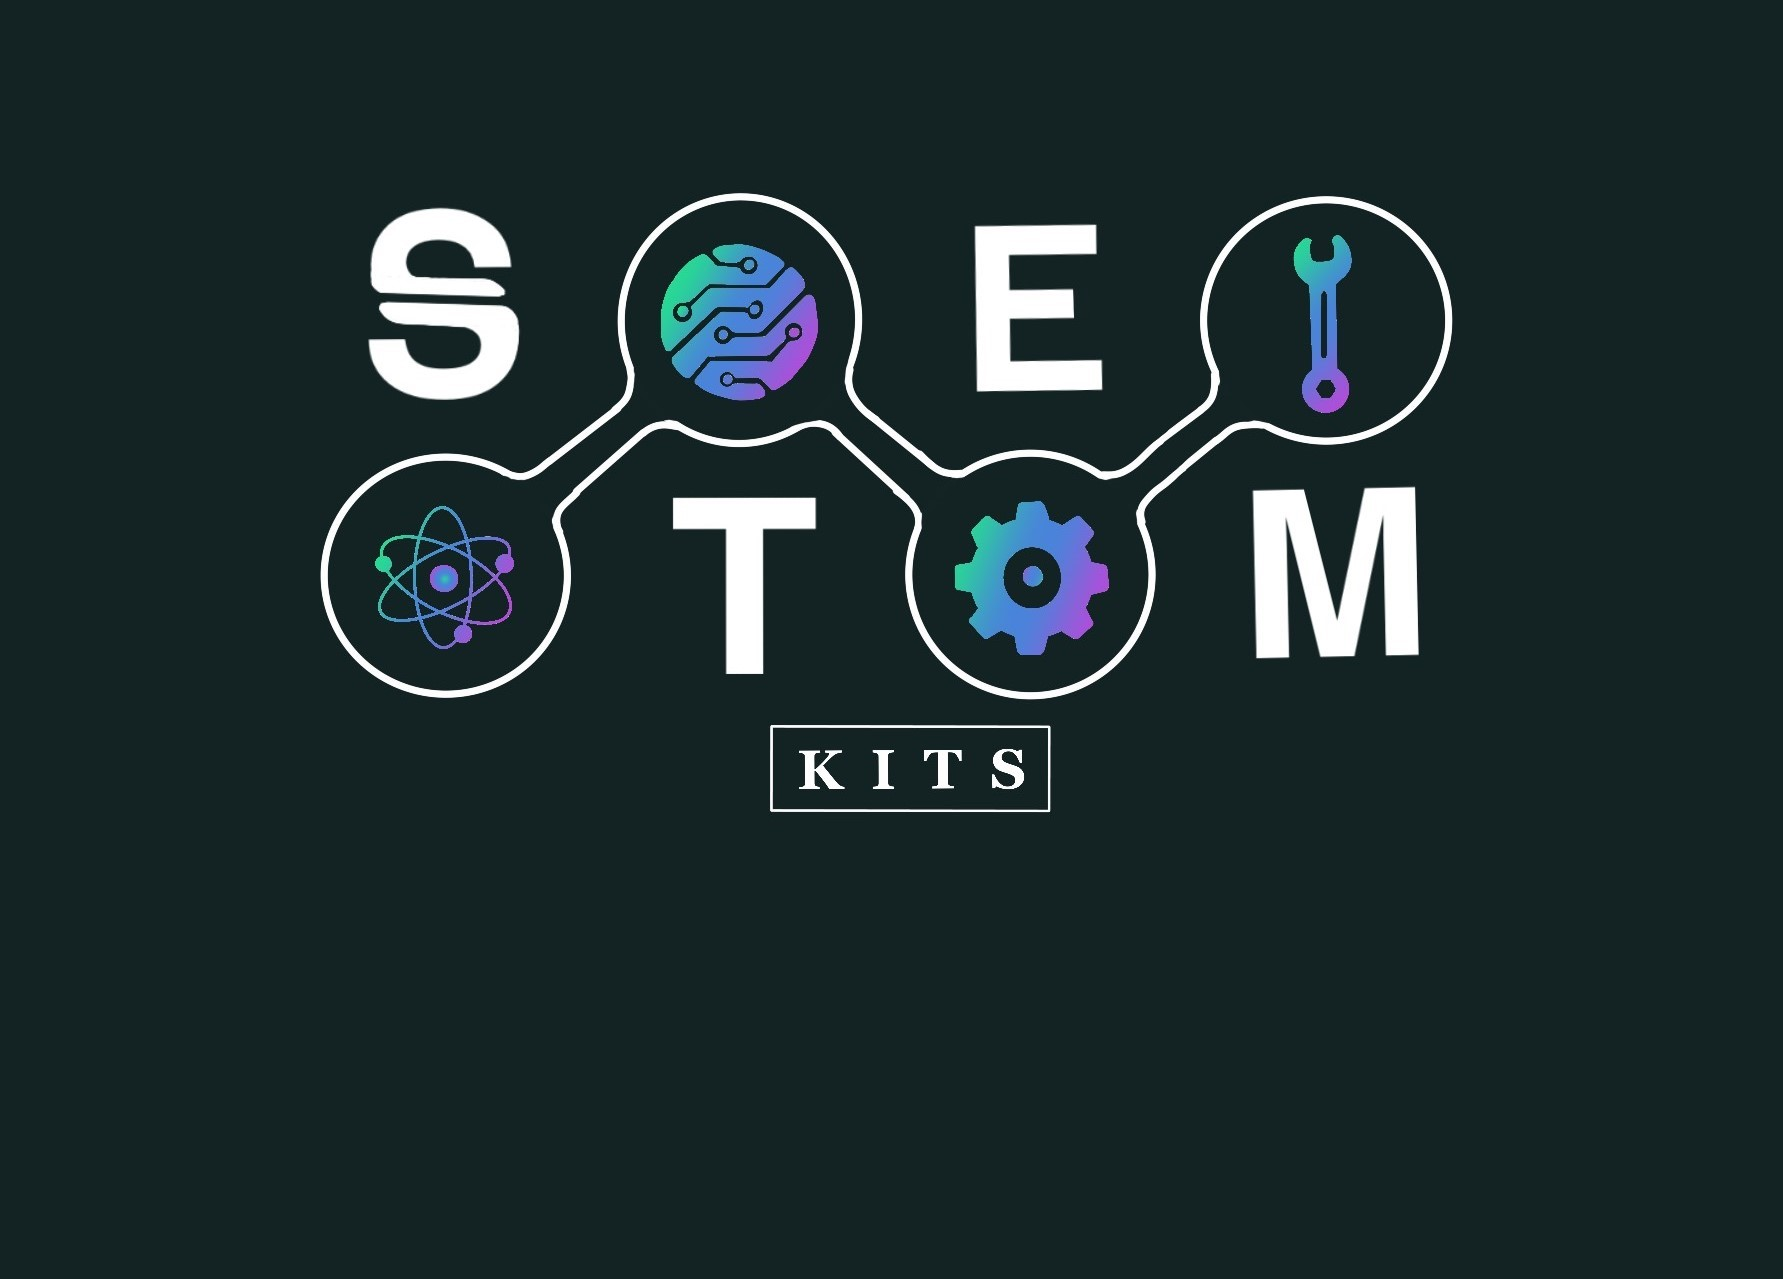
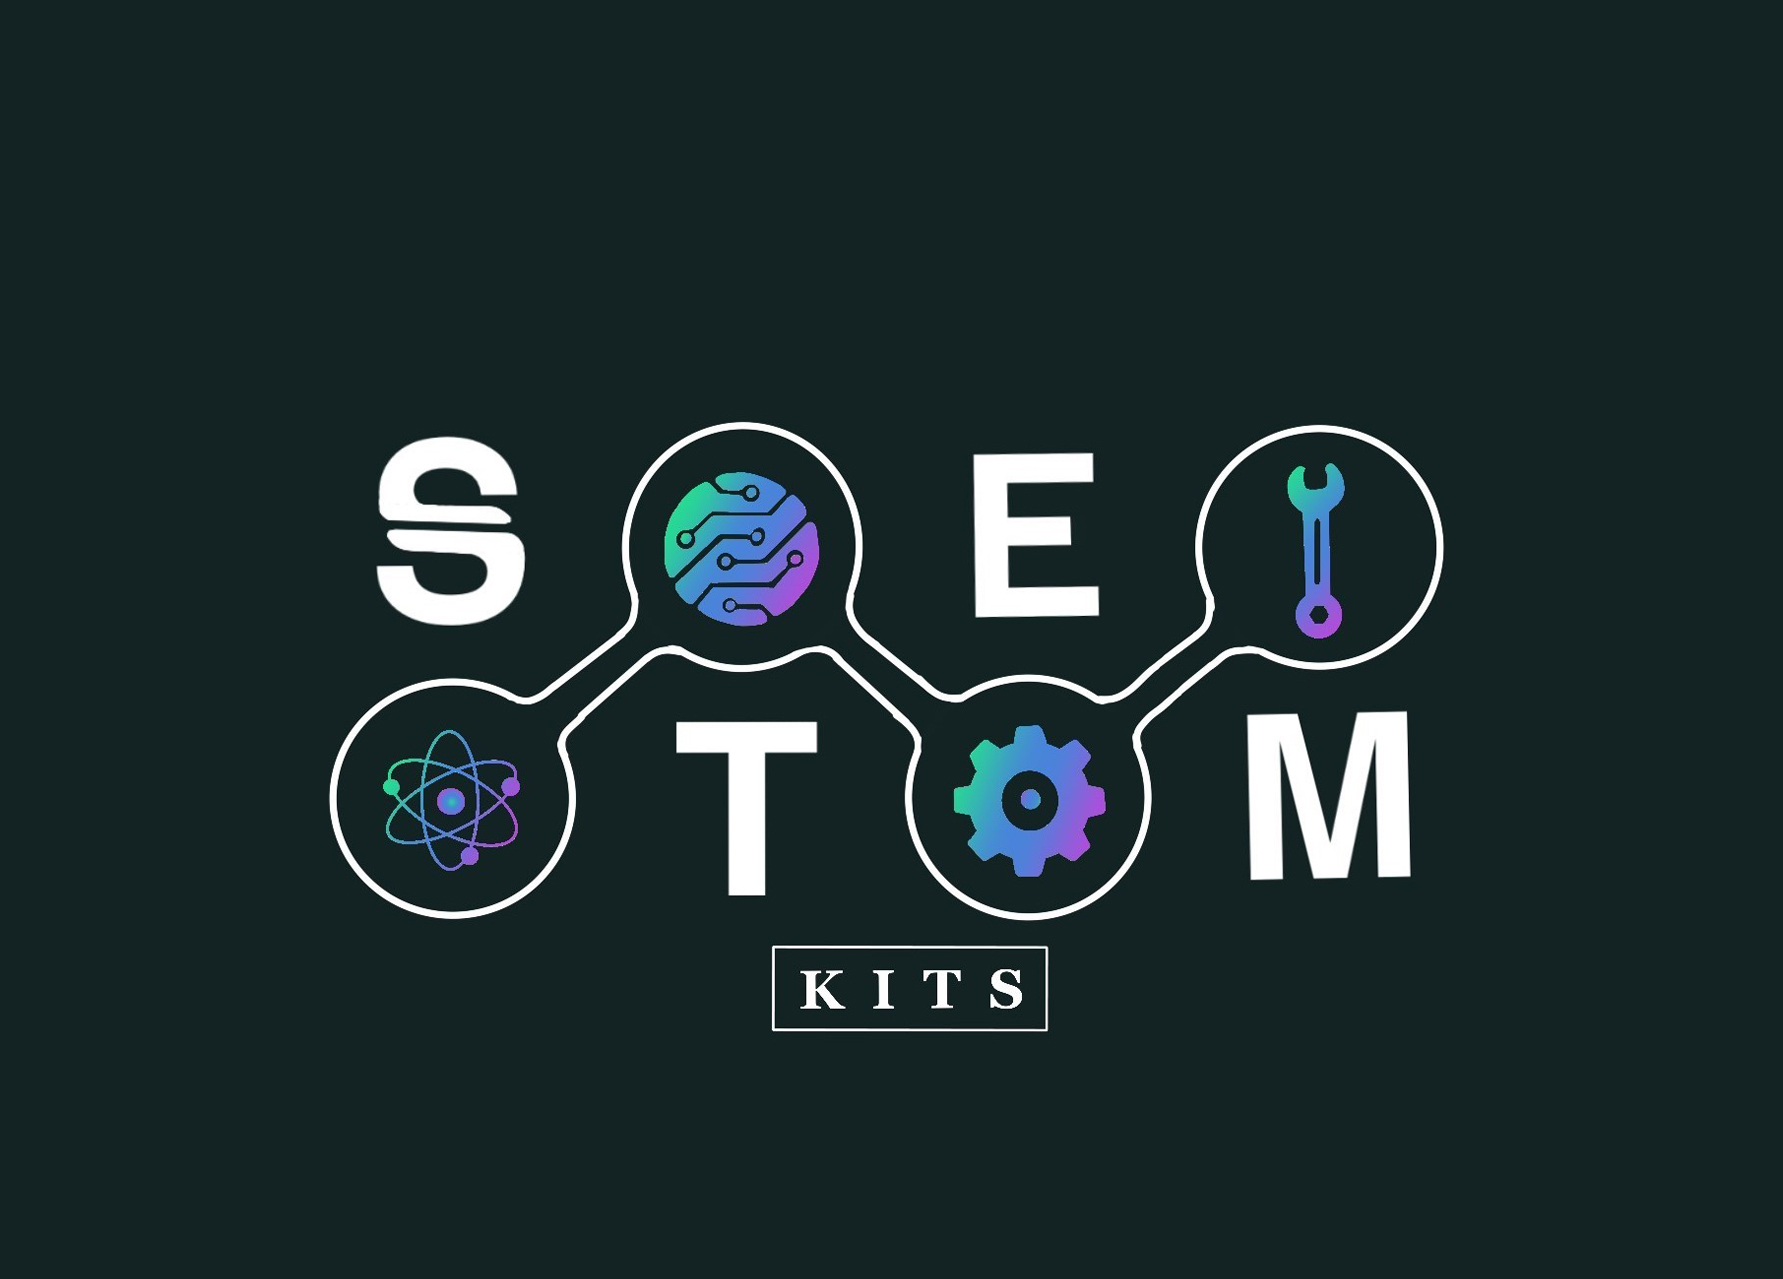
optimizations for mobile devices

diff --git a/src/App.js b/src/App.js
@@ -83,8 +83,8 @@ class App extends React.Component {
                       STEM KITS
                     </Typography>
 
-                    <Badge badgeContent={localStorage.getItem("count")} color="primary">
-                    <IconButton onClick={() => {
+                    <Badge badgeContent={localStorage.getItem("count")} color="primary" sx={{marginTop : 2}}>
+                    <IconButton size="large" onClick={() => {
                       // clicking this button will redirect to the url variable
                       let url = "https://www.google.com"
                       window.location.href = url;

diff --git a/src/components/kit.js b/src/components/kit.js
@@ -12,7 +12,7 @@ class KitComponent extends React.Component {
     render(){
         return (
             <div>
-                <Card sx={{ maxWidth: 800 , marginLeft : 2 , paddingBottom: 2}}>
+                <Card sx={{ maxWidth: 800 , marginLeft : 2.5 , marginBottom : 2 , paddingBottom: 2}}>
                     <CardMedia
                         component="img"
                         alt="Kit Image"

diff --git a/src/App.css b/src/App.css
@@ -7,9 +7,10 @@
 .landing {
   text-align: center;
   padding-top : 10%;
-  padding-bottom: 49%;
+  padding-bottom: 55%;
   padding-left : 10%;
   background-image: url('./assets/landing2.jpg');
+  /* background-attachment: fixed; */
   background-repeat: no-repeat;
   background-size: cover;
 }
